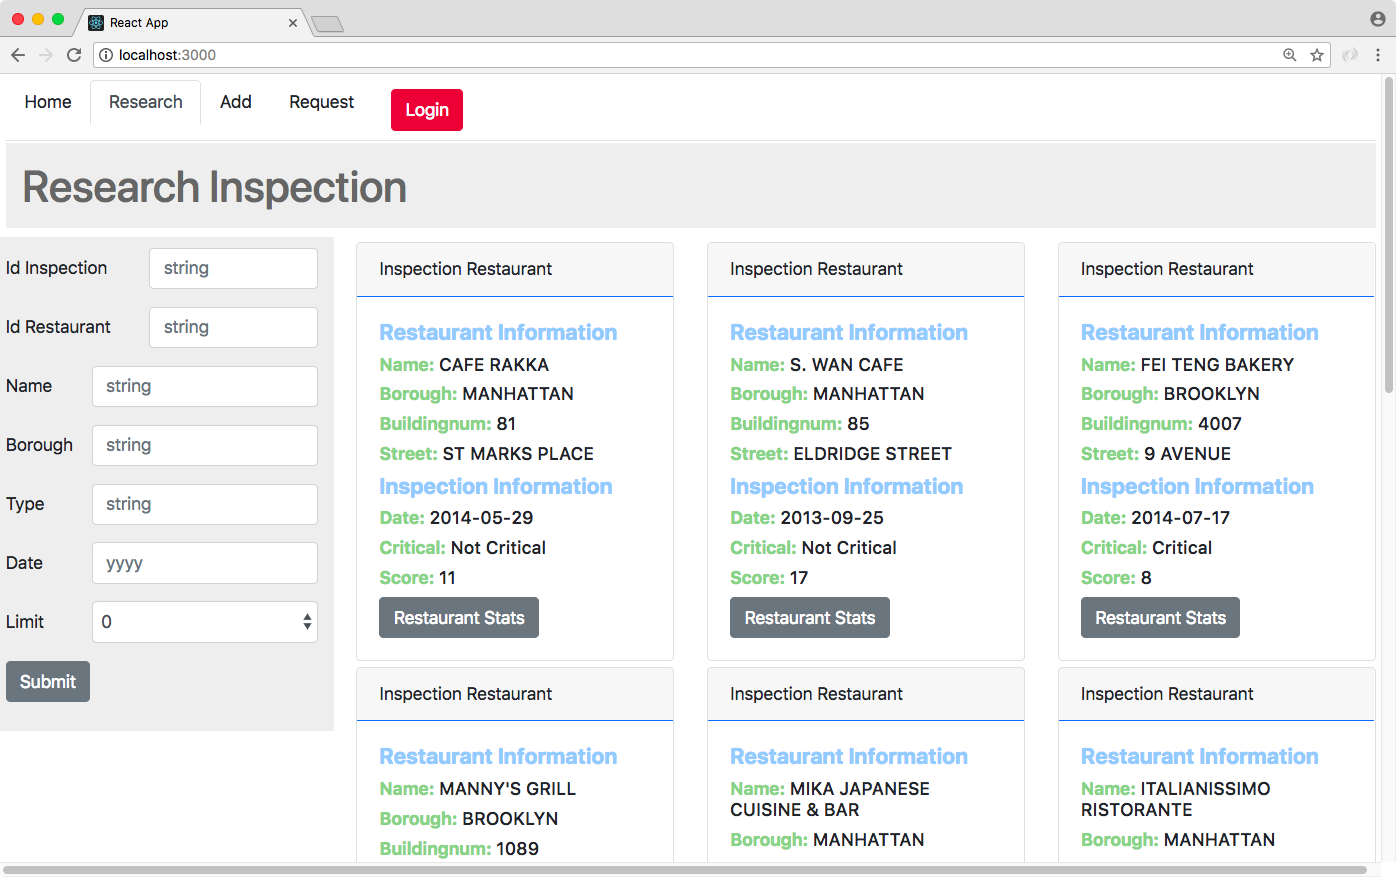
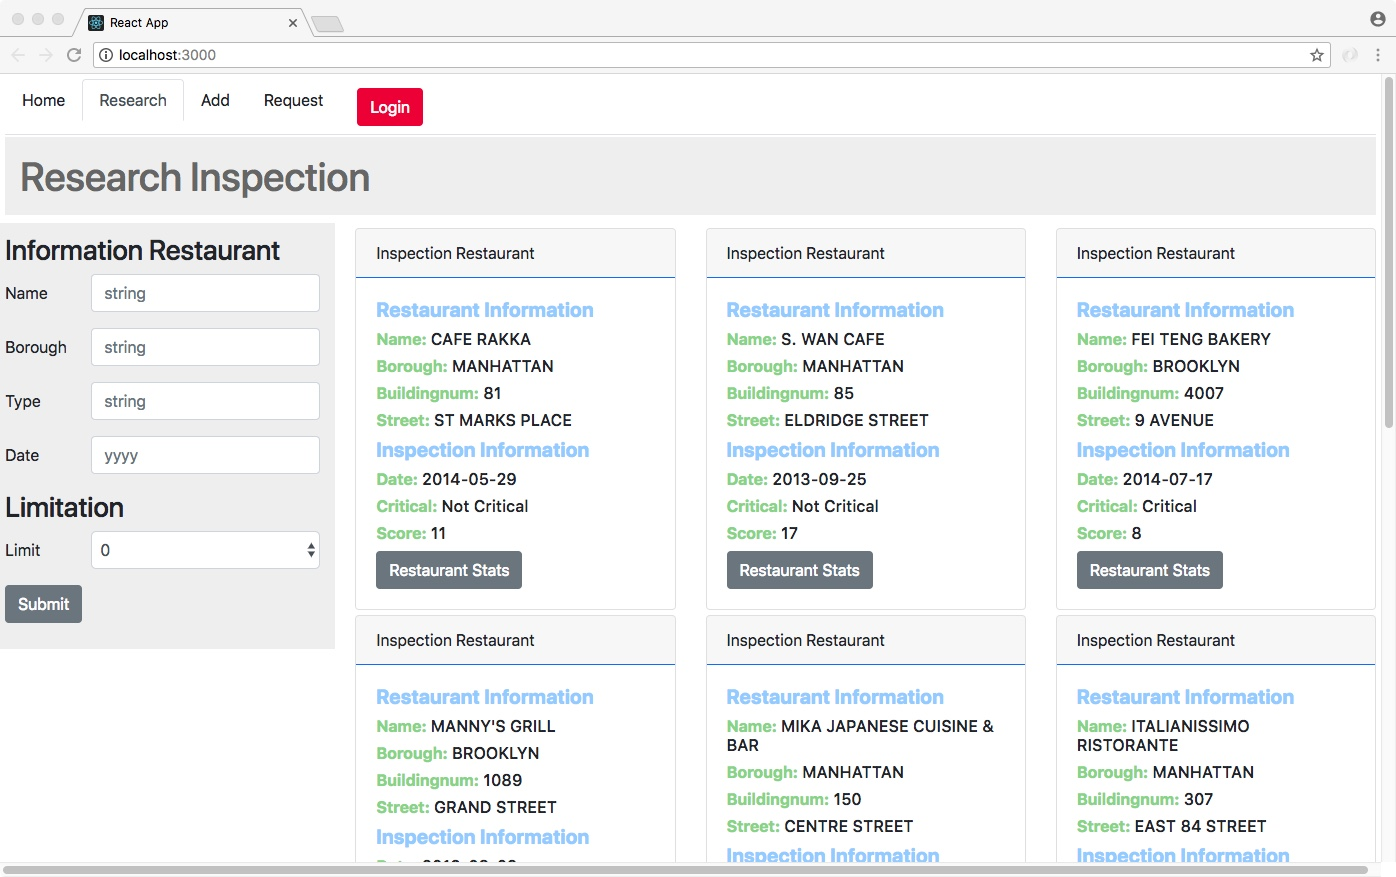
add disconnect option

diff --git a/front/inspections-app/src/components/modals/ModalConnect.js b/front/inspections-app/src/components/modals/ModalConnect.js
@@ -27,6 +27,8 @@ class ModalConnect extends React.Component {
       this.setState({
         modal: !this.state.modal
       });
+    }else{
+      this.props.sendData(false)
     }
   }
 
@@ -41,14 +43,16 @@ class ModalConnect extends React.Component {
     return(pass === loginConnection.password && login === loginConnection.login)
   }
 
-  //https://stackoverflow.com/questions/42917854/pass-value-from-child-to-parent-component-in-react
-
   render() {
 
+    let nameButton = "login"
+    if(this.props.isConnected){
+      nameButton = "Disconnect"
+    }
 
     return (
       <div>
-        <Button color = {this.props.connected} onClick={this.toggle}>Login</Button>
+        <Button color = {this.props.connected} onClick={this.toggle}>{nameButton}</Button>
         <Modal isOpen={this.state.modal} toggle={this.toggle} className={this.props.className}>
           <ModalHeader toggle={this.toggle}>Connect</ModalHeader>
           <ModalBody>

diff --git a/front/inspections-app/src/views/App.js b/front/inspections-app/src/views/App.js
@@ -71,17 +71,19 @@ class App extends React.Component {
               Add
             </NavLink>
           </NavItem>
+          <NavItem>
           <NavLink
             className={classnames({ active: this.state.activeTab === '4' })}
             onClick={() => { this.toggle('4'); }}>
             Request
           </NavLink>
+          </NavItem>
+
 
           <NavItem>
-            <NavLink>
             <ModalConnect sendData={this.getData.bind(this)} isConnected={this.state.connected} connected={bgColor} />
-          </NavLink>
-        </NavItem>
+          </NavItem>
+
 
         </Nav>
         <TabContent activeTab={this.state.activeTab}>

diff --git a/readme.md b/readme.md
@@ -56,7 +56,13 @@ This project is split in 2 parts:
 
 #### Research Page
 
+##### User access
+
 ![Alt text](/screens/screen02.jpeg?raw=true "")
+
+##### Admin access
+
+![Alt text](/screens/screen07.jpeg?raw=true "")
 
 #### Stats pop-up
 
